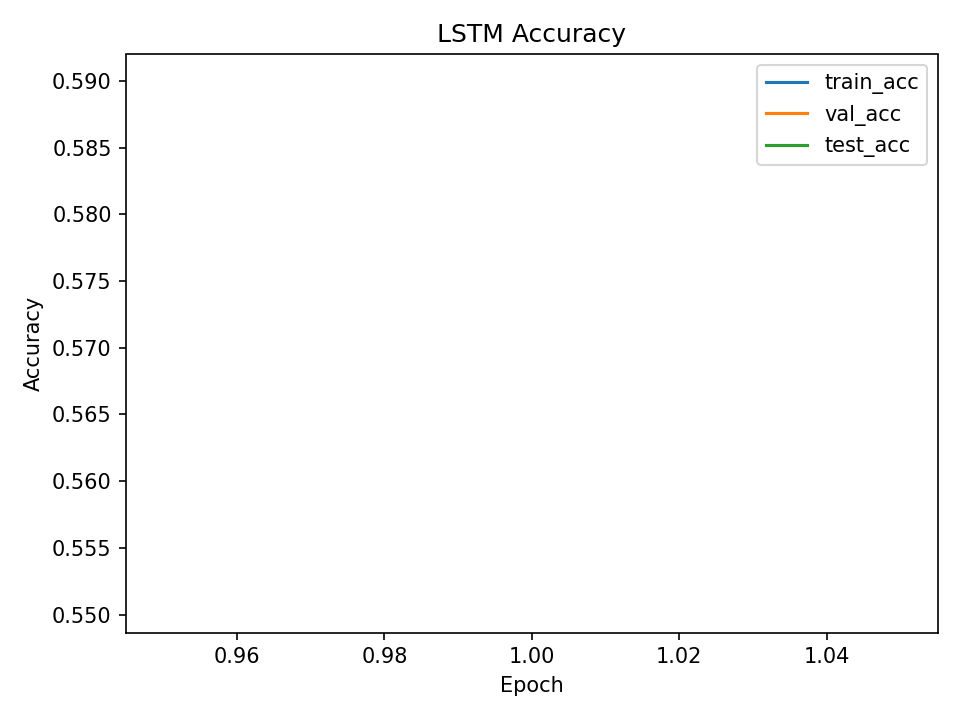
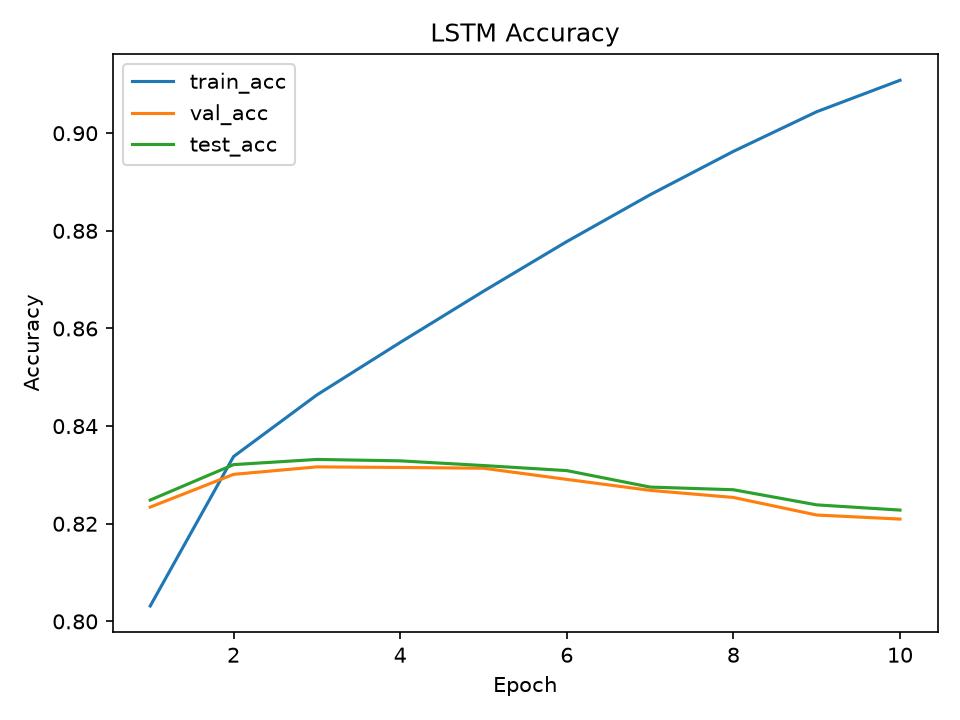
333

diff --git a/任务三/pytorch_sentiment_analysis-master/情感分类实战/src/Pytorch_LSTM实战情感分类.py b/任务三/pytorch_sentiment_analysis-master/情感分类实战/src/Pytorch_LSTM实战情感分类.py
@@ -12,6 +12,7 @@ import torch.nn as nn
 from sklearn.model_selection import train_test_split
 from torch.nn.utils.rnn import pack_padded_sequence, pad_sequence
 from torch.utils.data import DataLoader, Dataset
+from tqdm import tqdm
 
 
 ROOT_DIR = Path(__file__).resolve().parents[1]
@@ -201,6 +202,9 @@ def run_epoch(
     optimizer: torch.optim.Optimizer,
     device: torch.device,
     train_mode: bool,
+    epoch_idx: int,
+    total_epochs: int,
+    stage: str,
 ) -> Tuple[float, float]:
     if train_mode:
         model.train()
@@ -211,7 +215,13 @@ def run_epoch(
     total_correct = 0
     total_samples = 0
 
-    for input_ids, lengths, labels in dataloader:
+    progress = tqdm(
+        dataloader,
+        desc=f"Epoch {epoch_idx:02d}/{total_epochs:02d} [{stage}]",
+        leave=False,
+        dynamic_ncols=True,
+    )
+    for input_ids, lengths, labels in progress:
         input_ids = input_ids.to(device)
         lengths = lengths.to(device)
         labels = labels.to(device)
@@ -228,6 +238,10 @@ def run_epoch(
         total_loss += loss.item() * batch_size
         total_correct += (logits.argmax(dim=1) == labels).sum().item()
         total_samples += batch_size
+        progress.set_postfix(
+            loss=f"{total_loss / max(total_samples, 1):.4f}",
+            acc=f"{total_correct / max(total_samples, 1):.4f}",
+        )
 
     avg_loss = total_loss / max(total_samples, 1)
     accuracy = total_correct / max(total_samples, 1)
@@ -378,13 +392,37 @@ def main() -> None:
 
     for epoch in range(1, args.epochs + 1):
         train_loss, train_acc = run_epoch(
-            model, train_loader, criterion, optimizer, device, train_mode=True
+            model,
+            train_loader,
+            criterion,
+            optimizer,
+            device,
+            train_mode=True,
+            epoch_idx=epoch,
+            total_epochs=args.epochs,
+            stage="train",
         )
         val_loss, val_acc = run_epoch(
-            model, val_loader, criterion, optimizer, device, train_mode=False
+            model,
+            val_loader,
+            criterion,
+            optimizer,
+            device,
+            train_mode=False,
+            epoch_idx=epoch,
+            total_epochs=args.epochs,
+            stage="val",
         )
         test_loss, test_acc = run_epoch(
-            model, test_loader, criterion, optimizer, device, train_mode=False
+            model,
+            test_loader,
+            criterion,
+            optimizer,
+            device,
+            train_mode=False,
+            epoch_idx=epoch,
+            total_epochs=args.epochs,
+            stage="test",
         )
 
         history["train_loss"].append(train_loss)

diff --git a/任务三/pytorch_sentiment_analysis-master/情感分类实战/实验记录_全量数据_LSTM_10轮.md b/任务三/pytorch_sentiment_analysis-master/情感分类实战/实验记录_全量数据_LSTM_10轮.md
@@ -1,0 +1,128 @@
+# Sentiment140 全量實驗記錄（LSTM，10 輪）
+
+## 1. 實驗目標
+
+使用 `PyTorch` 實作的 `LSTM` 模型，在 Sentiment140 全量資料（160 萬筆）上進行情感二分類訓練，完整跑滿 10 個 epoch，並記錄訓練過程與最終指標。
+
+## 2. 實驗環境
+
+- 作業系統：Windows 10
+- Python 環境：Conda `dl`
+- 核心框架：`torch 2.7.1+cu118`
+- CUDA：可用（`Torch CUDA available: True`）
+- 裝置：`cuda`
+- 主要依賴：`torchvision`、`numpy`、`pandas`、`matplotlib`、`scikit-learn`、`tqdm`
+
+## 3. 資料與切分
+
+- 資料集：Sentiment140
+- 載入樣本數：`1,600,000`
+- 類別分布：`label 0 = 0.5`，`label 1 = 0.5`
+- 切分方式：
+  - Train：`1,280,000`
+  - Validation：`160,000`
+  - Test：`160,000`
+
+## 4. 模型與訓練設定
+
+### 4.1 模型結構
+
+- 模型：`LSTMClassifier`
+- 詞嵌入層：`Embedding(vocab_size=20000, embedding_dim=200, padding_idx=0)`
+- 編碼器：單層 `LSTM(hidden_size=128, batch_first=True)`
+- 正則化：`Dropout(0.2)`
+- 輸出層：`Linear(128 -> 2)`（二分類）
+
+### 4.2 超參數（本次實驗）
+
+- `epochs=10`
+- `batch_size=256`
+- `embedding_dim=200`
+- `hidden_size=128`
+- `dropout=0.2`
+- `lr=1e-3`
+- `max_vocab_size=20000`
+- `min_freq=2`
+- `max_len=50`
+- `val_size=0.1`
+- `test_size=0.1`
+- `seed=42`
+- `max_samples=-1`（代表不抽樣，使用全量資料）
+
+### 4.3 優化與損失
+
+- 損失函數：`CrossEntropyLoss`
+- 優化器：`Adam`
+- 模型保存策略：以 `val_loss` 最佳為準，保存為 `best_lstm.pt`
+
+## 5. 執行命令與輸出檔
+
+### 5.1 實際執行命令
+
+```powershell
+conda run -n dl python "src/Pytorch_LSTM实战情感分类.py" --epochs 10 --max-samples -1
+```
+
+### 5.2 終端訓練可視化
+
+程式已加入 `tqdm`，每個 epoch 的 `train/val/test` 都會顯示批次進度與即時 loss/acc，並在每輪結束後印出彙總行（`Epoch xx | ...`）。
+
+### 5.3 主要輸出檔案
+
+- 訓練日誌：`output/logs/train_full_e10_console.log`
+- 每輪指標：`output/logs/training_history.csv`
+- 最佳模型：`output/models/best_lstm.pt`
+- 曲線圖：`output/figures/lstm_loss.png`、`output/figures/lstm_accuracy.png`
+
+## 6. 訓練過程記錄（10 輪）
+
+| Epoch | train_loss | train_acc | val_loss | val_acc | test_loss | test_acc |
+|---|---:|---:|---:|---:|---:|---:|
+| 1 | 0.4246 | 0.8032 | 0.3891 | 0.8234 | 0.3873 | 0.8249 |
+| 2 | 0.3700 | 0.8338 | 0.3777 | 0.8301 | 0.3747 | 0.8321 |
+| 3 | 0.3461 | 0.8464 | 0.3758 | 0.8317 | 0.3731 | 0.8332 |
+| 4 | 0.3251 | 0.8571 | 0.3805 | 0.8315 | 0.3780 | 0.8329 |
+| 5 | 0.3044 | 0.8676 | 0.3880 | 0.8314 | 0.3865 | 0.8319 |
+| 6 | 0.2842 | 0.8778 | 0.3968 | 0.8291 | 0.3951 | 0.8309 |
+| 7 | 0.2644 | 0.8874 | 0.4215 | 0.8268 | 0.4186 | 0.8275 |
+| 8 | 0.2460 | 0.8963 | 0.4346 | 0.8254 | 0.4321 | 0.8270 |
+| 9 | 0.2296 | 0.9044 | 0.4572 | 0.8218 | 0.4531 | 0.8239 |
+| 10 | 0.2155 | 0.9108 | 0.4751 | 0.8210 | 0.4698 | 0.8228 |
+
+## 7. 關鍵結果與分析
+
+### 7.1 最佳 epoch（以驗證集 loss）
+
+- 最佳 `val_loss`：`0.3758`（Epoch 3）
+- 對應 `val_acc`：`0.8317`
+- 對應 `test_acc`：`0.8332`
+
+### 7.2 最終 epoch（Epoch 10）
+
+- `train_acc=0.9108`
+- `val_acc=0.8210`
+- `test_acc=0.8228`
+
+### 7.3 現象解讀
+
+- 訓練集指標持續上升（`train_acc` 由 0.8032 -> 0.9108）。
+- 驗證與測試在第 3 輪附近達到高點後，隨後緩慢下降。
+- 呈現中後期過擬合跡象：模型持續記憶訓練資料，但泛化能力略下降。
+
+## 8. 訓練耗時
+
+- START_TIME：`2026-07-02 11:00:35`
+- END_TIME：`2026-07-02 11:12:11`
+- 總耗時：約 `11.61` 分鐘（GPU）
+
+## 9. 結論
+
+本次已在 `conda dl` 環境下完成 Sentiment140 全量資料訓練，10 輪實驗可重現且產物完整。模型在 Epoch 3 左右達到最佳泛化表現（`test_acc ≈ 0.8332`），後續訓練主要提升訓練集表現，泛化略有下滑。若追求最佳測試表現，建議採用早停（Early Stopping）或以最佳驗證 loss 的模型作為最終提交模型。
+
+## 10. 後續優化建議（可選）
+
+- 加入 `Early Stopping`（patience 2~3）
+- 嘗試學習率衰減（如 `ReduceLROnPlateau`）
+- 加強正則化（較大 dropout、weight decay）
+- 增加文本預處理（去 URL/mention，保留否定詞模式）
+- 嘗試雙向 LSTM 或 Transformer baseline 做對照